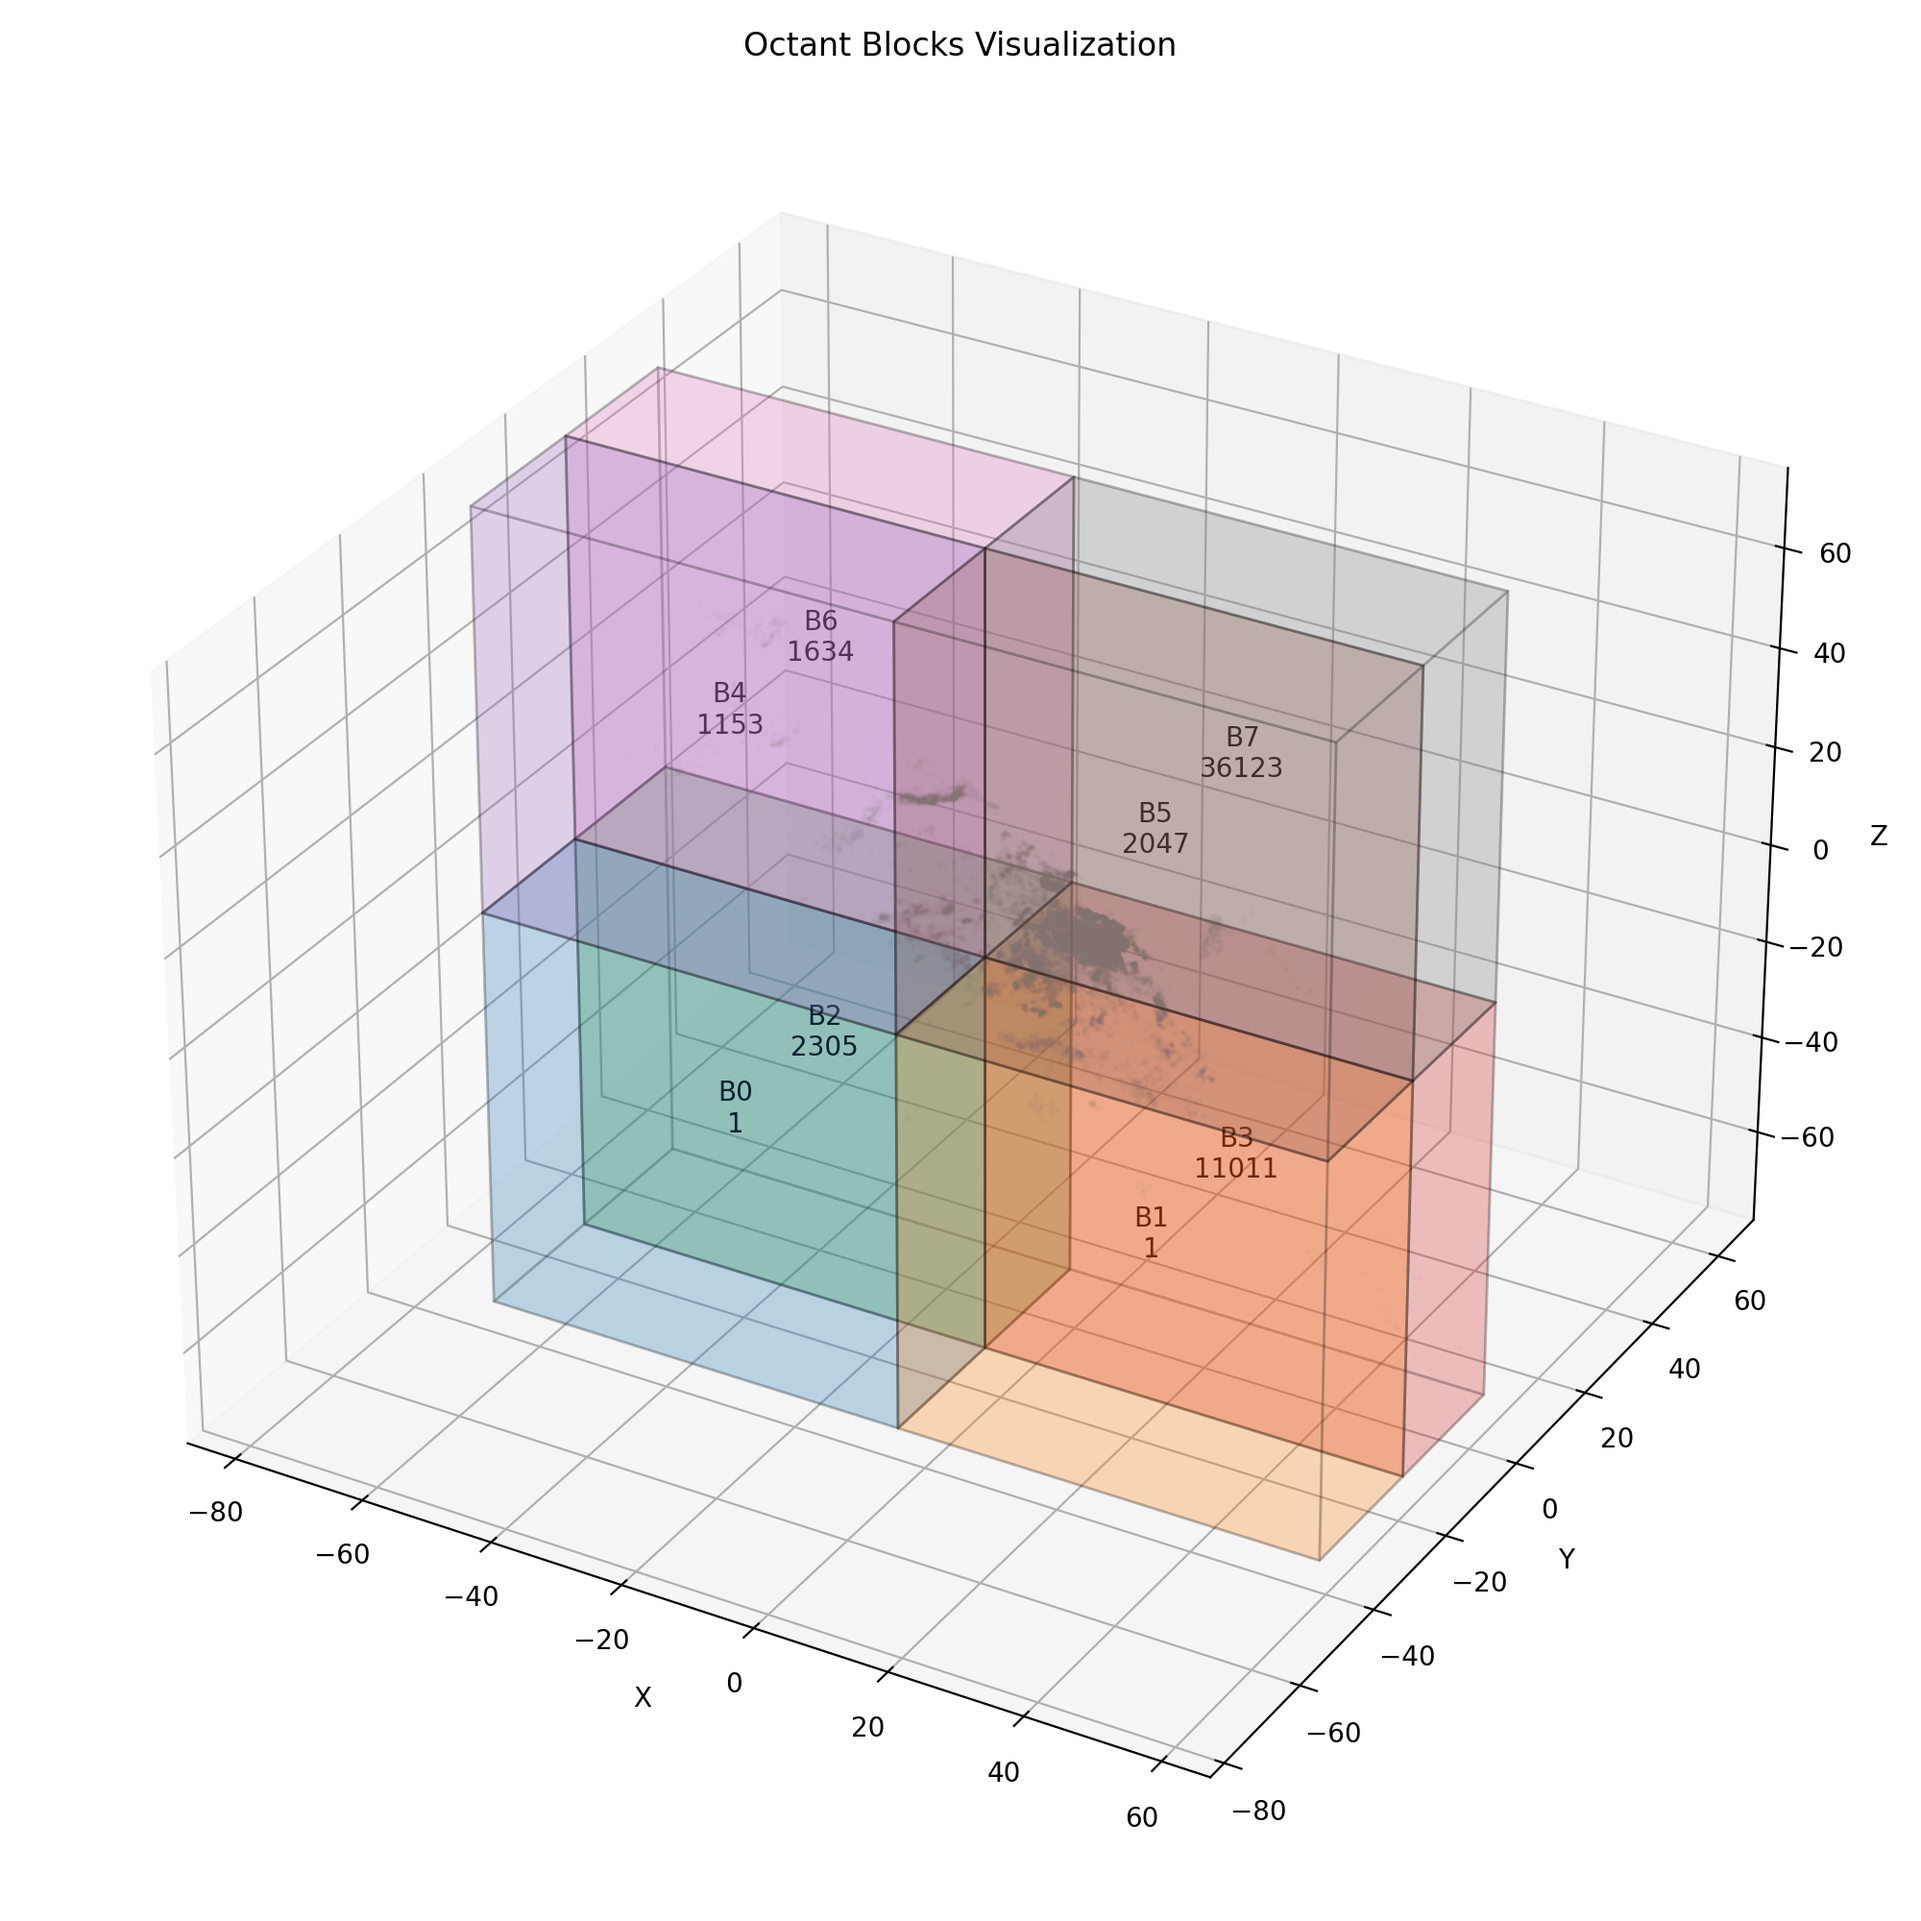
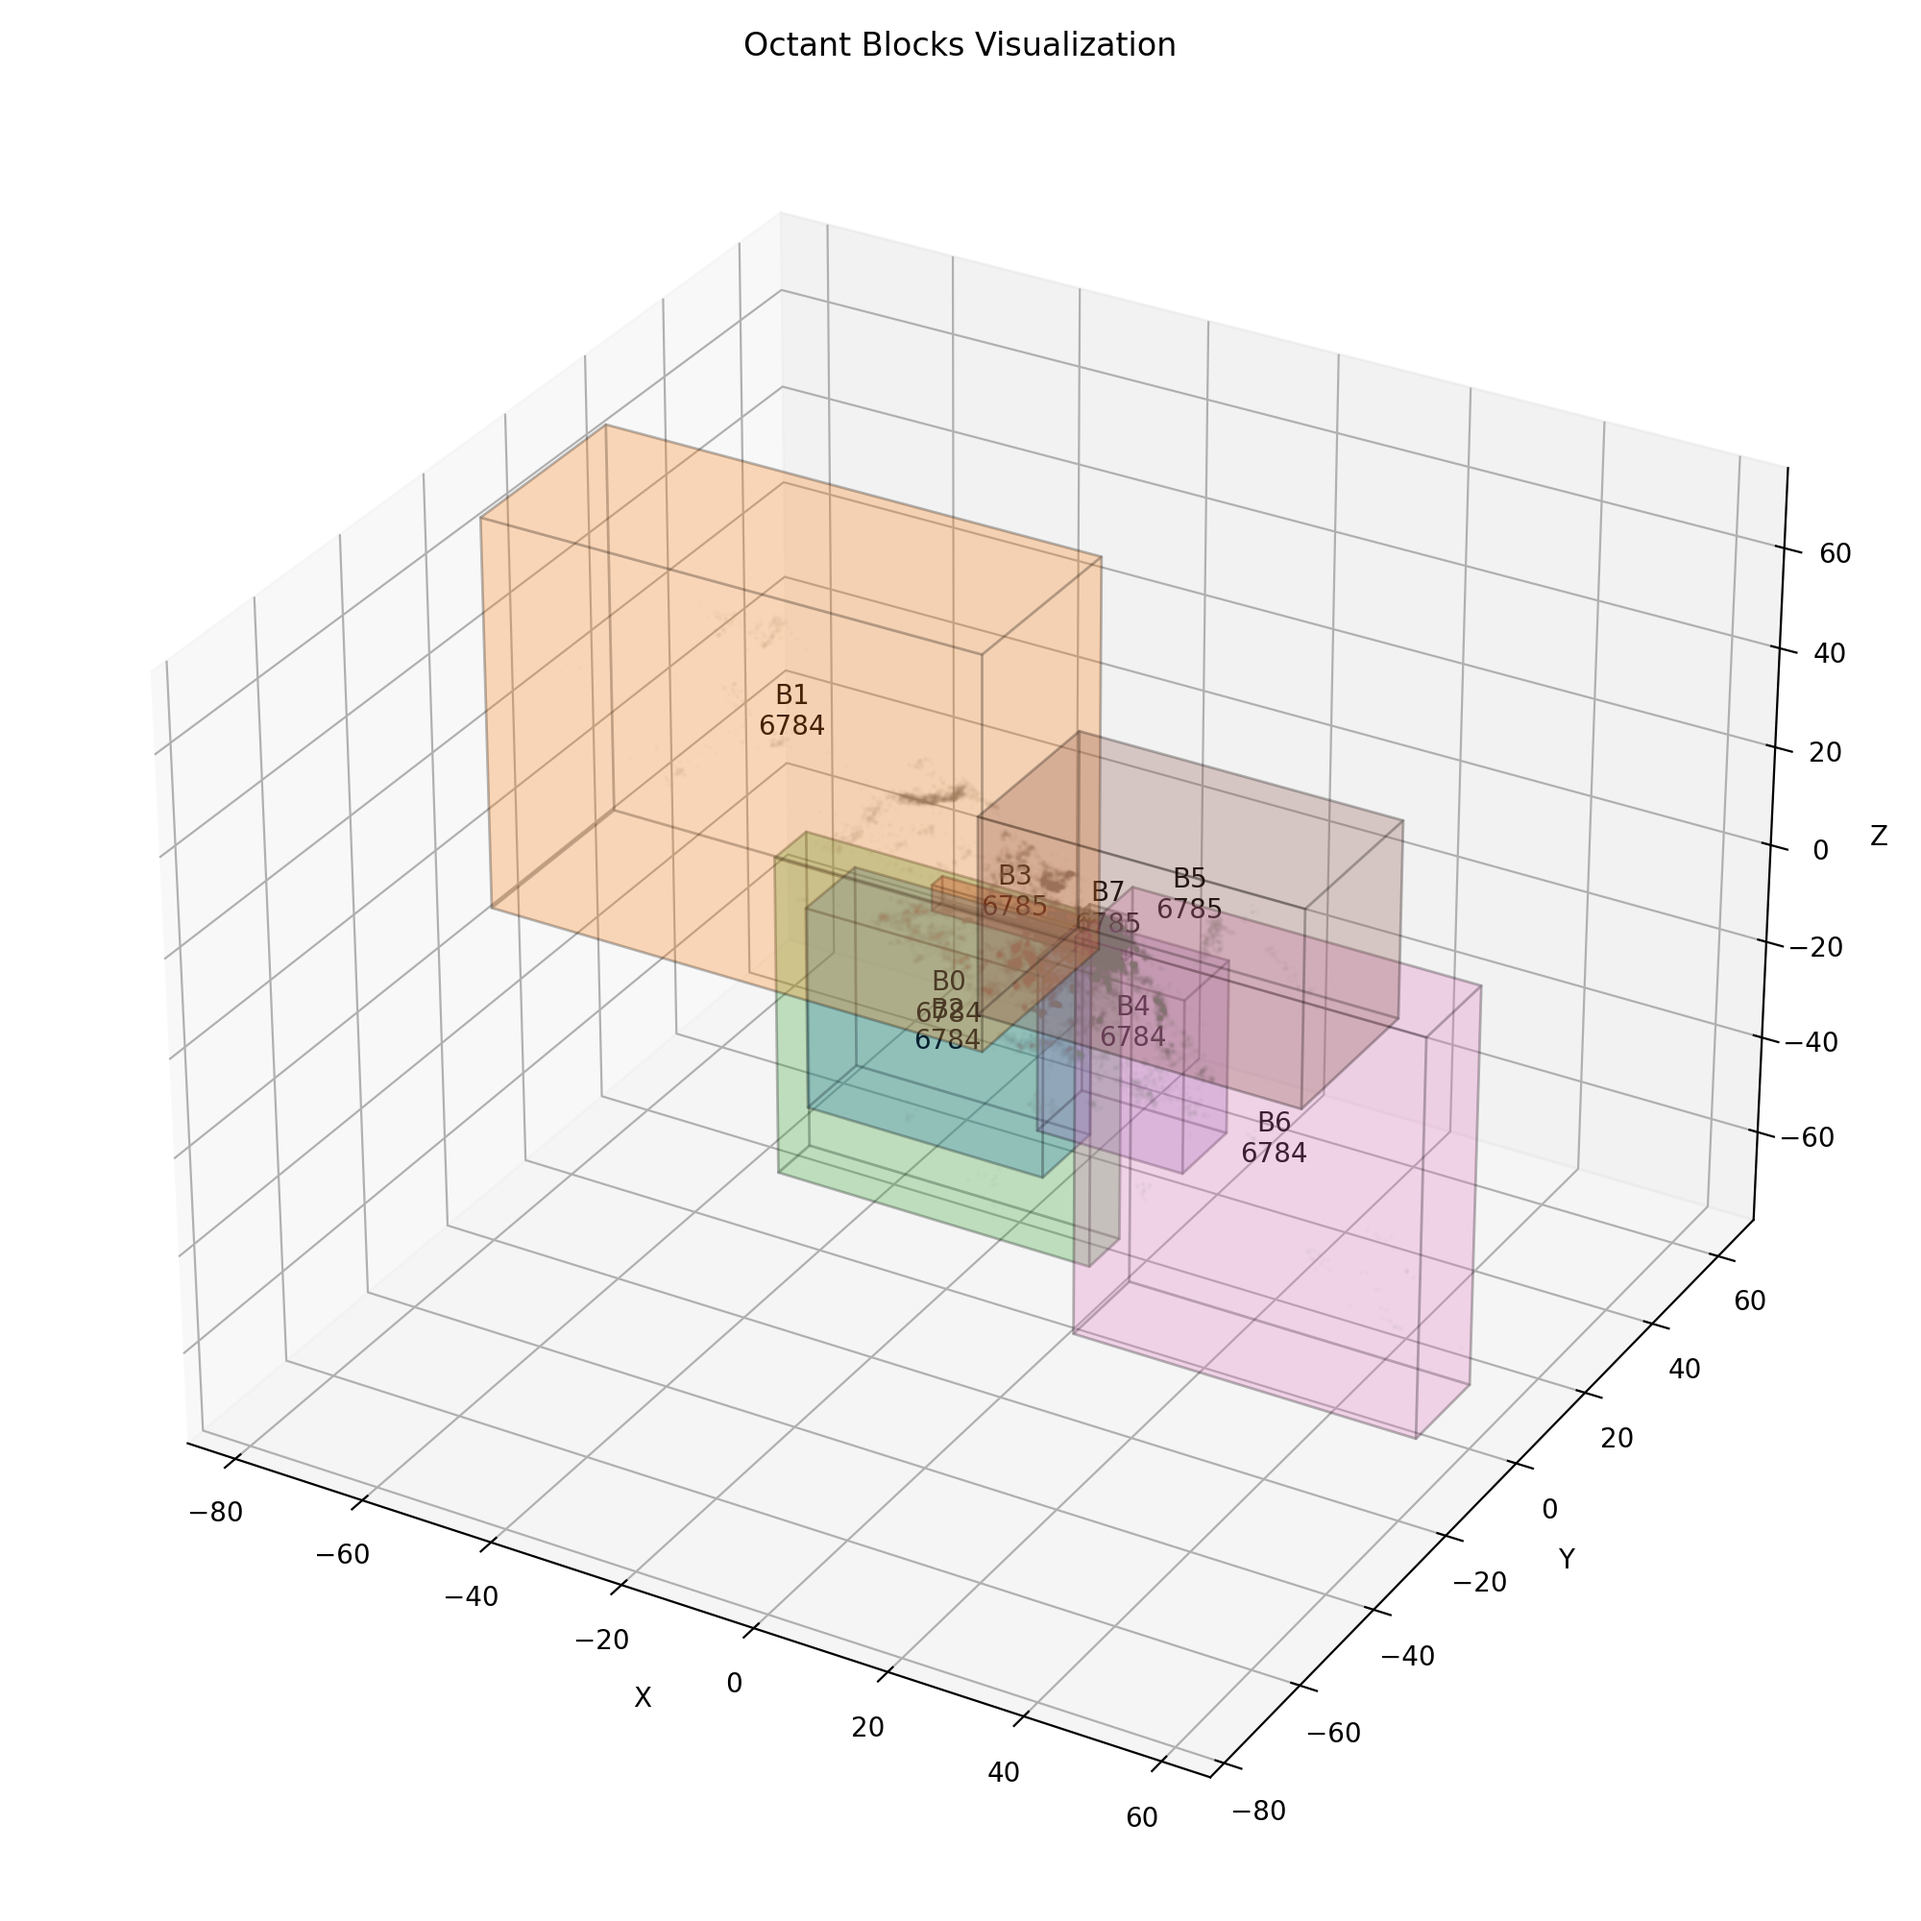
kdtree gen blocks

Changed region(s): [[0.248, 0.186, 0.806, 0.806]]

diff --git a/partition/__init__.py b/partition/__init__.py
@@ -50,6 +50,81 @@ def split_block(block, xyz, max_size):
     return left_block, right_block
 
 
+def generate_octant_blocks_kdtree(xyz: torch.Tensor, inflate_ratio: float = 0.05):
+    """
+    KD-tree style balanced partitioning into exactly 8 blocks.
+
+    Semantics aligned with generate_octant_blocks:
+    - block_indices: index tensors (no change)
+    - block_bounds: NEW tensors (no grad), safe for visualization
+    """
+
+    device = xyz.device
+    dtype  = xyz.dtype
+    N = xyz.shape[0]
+
+    all_idx = torch.arange(N, device=device)
+
+    block_bounds = []
+    block_indices = []
+
+    def recurse(idx: torch.Tensor, depth: int):
+        # 3 levels -> 2^3 = 8 blocks
+        if depth == 3:
+            pts = xyz[idx]
+
+            # ---- compute AABB (may require grad) ----
+            mins = pts.min(dim=0).values
+            maxs = pts.max(dim=0).values
+
+            # ---- inflate (pure geometry) ----
+            center = (mins + maxs) * 0.5
+            extent = (maxs - mins) * 0.5
+            extent = extent * (1.0 + inflate_ratio)
+
+            mins = center - extent
+            maxs = center + extent
+
+            # ---- IMPORTANT PART (octant-style detach) ----
+            # Re-create tensors so they DO NOT require grad
+            min_xyz = torch.tensor(
+                [mins[0], mins[1], mins[2]],
+                device=device,
+                dtype=dtype
+            )
+            max_xyz = torch.tensor(
+                [maxs[0], maxs[1], maxs[2]],
+                device=device,
+                dtype=dtype
+            )
+
+            block_bounds.append((min_xyz, max_xyz))
+            block_indices.append(idx)
+            return
+
+        # ---- KD split axis ----
+        axis = depth % 3
+
+        # ---- sort by axis ----
+        coords = xyz[idx, axis]
+        _, order = torch.sort(coords)
+        sorted_idx = idx[order]
+
+        mid = sorted_idx.numel() // 2
+        left_idx  = sorted_idx[:mid]
+        right_idx = sorted_idx[mid:]
+
+        recurse(left_idx,  depth + 1)
+        recurse(right_idx, depth + 1)
+
+    recurse(all_idx, depth=0)
+
+    # ---- debug stats ----
+    for i, idx in enumerate(block_indices):
+        print(f"Block {i:2d}: {idx.numel():7d} points")
+
+    return block_bounds, block_indices
+
 
 
 def generate_octant_blocks( xyz: torch.Tensor, inflate_ratio: float = 0.05 ):

diff --git a/scene/gaussian_model.py b/scene/gaussian_model.py
@@ -21,7 +21,7 @@ from utils.sh_utils import RGB2SH
 from simple_knn._C import distCUDA2
 from utils.graphics_utils import BasicPointCloud
 from utils.general_utils import strip_symmetric, build_scaling_rotation
-from partition import generate_octant_blocks
+from partition import generate_octant_blocks, generate_octant_blocks_kdtree
 import matplotlib.pyplot as plt
 from mpl_toolkits.mplot3d.art3d import Poly3DCollection
 try:
@@ -513,7 +513,7 @@ class GaussianModel:
         
         
     def partition(self):
-        block_bounds, block_indices = generate_octant_blocks(self._xyz)
+        block_bounds, block_indices = generate_octant_blocks_kdtree(self._xyz)
         self.block_bounds = block_bounds
         self.block_indices = block_indices
     

diff --git a/train.py b/train.py
@@ -103,8 +103,9 @@ def training(dataset, opt, pipe, testing_iterations, saving_iterations, checkpoi
         available_indices = torch.nonzero(available_mask, as_tuple=True)[0]
         
         if not gaussians.partitioned:
-            if gaussians._xyz.shape[0] > 300_000:
+            if gaussians._xyz.shape[0] > 1:
                 gaussians.partition() 
+                gaussians.visualize_blocks()
                 gaussians.partitioned = True
                 LOGGER.info(f"Partitioned Gaussians at iteration {iteration}, total gaussians: {gaussians._xyz.shape[0]}, num partitions: {len(gaussians.block_indices)}")
             else:

diff --git a/config.py b/config.py
@@ -1,6 +1,6 @@
 # config.py
 # 控制加载数据集大小,减少启动时间,用于调试
-LIMITED_DATASIZE = False
+LIMITED_DATASIZE = True
 DATASIZE_LIMIT = 20
 # DEBUG模式会load 30000
 DEBUG_MODE = True
